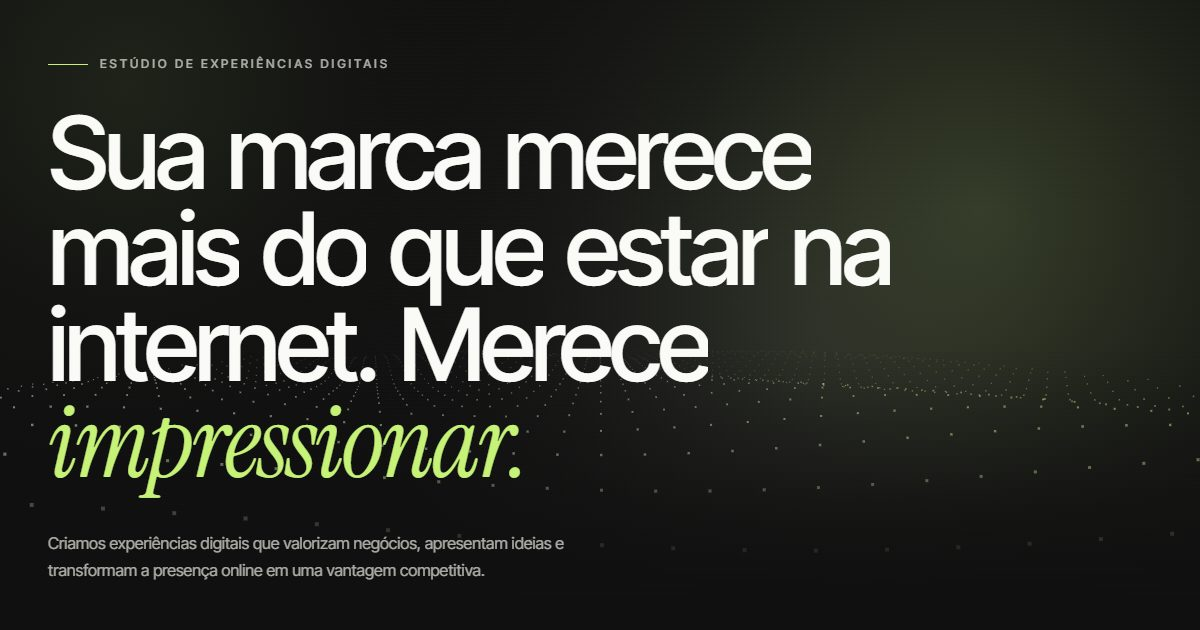
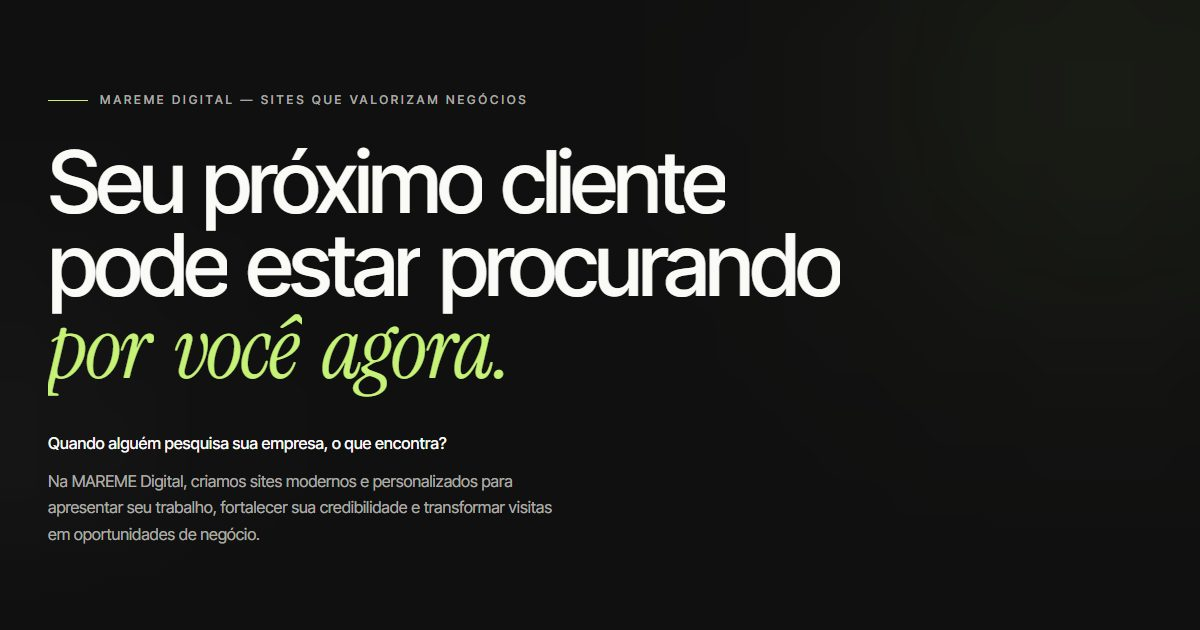
Atualiza hero, Sobre mim e contato
Nova copy do hero sem o fundo animado de partículas, textos do Emerson no Sobre mim com foto de corpo inteiro, WhatsApp configurado, cursor padrão do sistema e marcador em bolinha na faixa de serviços.

diff --git a/src/components/Founder.tsx b/src/components/Founder.tsx
@@ -1,24 +1,31 @@
 "use client";
 
-import { useRef } from "react";
+import { Fragment, useRef } from "react";
 import { site } from "@/data/site";
 import { asset } from "@/lib/asset";
 import { gsap, useGSAP } from "@/lib/gsap";
 import { Reveal } from "./Reveal";
-import { Em } from "./SectionHeading";
+
+/** Converte **trecho** em negrito. */
+function Rich({ text }: { text: string }) {
+  return (
+    <>
+      {text.split("**").map((part, i) =>
+        i % 2 ? <strong key={i} className="font-medium text-white">{part}</strong> : <Fragment key={i}>{part}</Fragment>
+      )}
+    </>
+  );
+}
 
 export function Founder() {
   const root = useRef<HTMLElement>(null);
   const f = site.founder;
+  const [first, ...rest] = f.title.split(" sou ");
 
   useGSAP(
     () => {
       const mm = gsap.matchMedia();
       mm.add("(prefers-reduced-motion: no-preference)", () => {
-        gsap.fromTo(".founder-photo", { yPercent: 8 }, {
-          yPercent: -8, ease: "none",
-          scrollTrigger: { trigger: root.current, start: "top bottom", end: "bottom top", scrub: true },
-        });
         gsap.fromTo(
           ".founder-frame",
           { clipPath: "inset(100% 0% 0% 0% round 28px)" },
@@ -35,9 +42,10 @@ export function Founder() {
   return (
     <section ref={root} id="sobre" className="relative overflow-hidden py-28 sm:py-36">
       <div aria-hidden="true" className="pointer-events-none absolute -left-40 top-1/3 h-[520px] w-[520px] rounded-full bg-lime/[0.06] blur-[140px]" />
-      <div className="container-x grid gap-14 lg:grid-cols-[0.9fr_1.1fr] lg:gap-20">
-        <div className="relative isolate mx-auto w-full max-w-[460px] lg:mx-0">
-          <div className="founder-frame relative aspect-[4/5] overflow-hidden rounded-[28px] border border-line bg-ink-3" style={{ clipPath: "inset(0% 0% 0% 0% round 28px)" }}>
+      <div className="container-x grid gap-14 lg:grid-cols-[0.75fr_1.25fr] lg:gap-20">
+        <div className="relative isolate mx-auto w-full max-w-[340px] self-start lg:sticky lg:top-28 lg:mx-0">
+          {/* Foto de corpo inteiro: a moldura segue a proporção original da imagem (821×1931) */}
+          <div className="founder-frame relative aspect-[821/1931] overflow-hidden rounded-[28px] border border-line bg-ink-3" style={{ clipPath: "inset(0% 0% 0% 0% round 28px)" }}>
             <img
               src={asset(f.photo)}
               alt={`${f.name}, ${f.role}`}
@@ -45,10 +53,10 @@ export function Founder() {
               height={1931}
               loading="lazy"
               decoding="async"
-              className="founder-photo absolute inset-x-0 -top-[8%] h-[116%] w-full object-cover object-[50%_28%]"
+              className="absolute inset-0 h-full w-full object-cover"
             />
-            <div className="absolute inset-0 bg-gradient-to-t from-ink via-transparent to-transparent" />
-            <div className="absolute inset-x-5 bottom-5 flex items-center justify-between gap-3 rounded-2xl border border-white/10 bg-ink/50 px-4 py-3 backdrop-blur-xl">
+            <div className="absolute inset-x-0 bottom-0 h-1/3 bg-gradient-to-t from-ink/90 to-transparent" />
+            <div className="absolute inset-x-4 bottom-4 flex items-center justify-between gap-3 rounded-2xl border border-white/10 bg-ink/50 px-4 py-3 backdrop-blur-xl">
               <div>
                 <p className="text-[15px] font-medium">{f.name}</p>
                 <p className="text-[12px] text-mist">Fundador · MAREME Digital</p>
@@ -70,16 +78,16 @@ export function Founder() {
           </Reveal>
           <Reveal delay={0.08}>
             <h2 className="text-[clamp(38px,5.2vw,76px)] font-medium leading-[0.98] tracking-[-0.04em]">
-              Por trás de cada projeto, <Em>um olhar dedicado.</Em>
+              {first} sou <em className="text-accent pr-[0.05em] font-serif font-normal italic tracking-[-0.01em]">{rest.join(" sou ")}</em>
             </h2>
           </Reveal>
           <Reveal delay={0.14}>
-            <p className="mt-6 text-[15px] uppercase tracking-[0.18em] text-mist">{f.name} — {f.role}</p>
+            <p className="mt-6 text-[15px] uppercase tracking-[0.18em] text-mist">{f.role}</p>
           </Reveal>
 
           <Reveal delay={0.2}>
             <div className="mt-8 grid gap-4 text-[17px] leading-relaxed text-white/75">
-              {f.story.map((p, i) => <p key={i}>{p}</p>)}
+              {f.story.map((p, i) => <p key={i}><Rich text={p} /></p>)}
             </div>
           </Reveal>
 
@@ -91,15 +99,15 @@ export function Founder() {
             </ul>
           </Reveal>
 
-          <div className="mt-12 grid gap-4 sm:grid-cols-2">
-            <Reveal delay={0.1} className="card-accent rounded-[22px] p-6">
-              <p className="eyebrow mb-3">Visão de trabalho</p>
-              <p className="font-serif text-[22px] italic leading-snug text-white/90">{f.vision}</p>
-            </Reveal>
-            <Reveal delay={0.18} className="rounded-[22px] border border-line bg-ink-2 p-6">
-              <p className="eyebrow mb-3">A MAREME e eu</p>
-              <p className="text-[16px] leading-relaxed text-white/75">{f.relation}</p>
-            </Reveal>
+          <div className="mt-12 grid gap-4">
+            {[f.vision, f.relation].map((block, i) => (
+              <Reveal key={block.title} delay={0.1 + i * 0.08} className={i === 0 ? "card-accent rounded-[22px] p-6 sm:p-8" : "rounded-[22px] border border-line bg-ink-2 p-6 sm:p-8"}>
+                <h3 className="eyebrow mb-5">{block.title}</h3>
+                <div className="grid gap-3.5 text-[16px] leading-relaxed text-white/75">
+                  {block.text.map((p, j) => <p key={j}><Rich text={p} /></p>)}
+                </div>
+              </Reveal>
+            ))}
           </div>
         </div>
       </div>

diff --git a/src/components/Hero.tsx b/src/components/Hero.tsx
@@ -1,12 +1,12 @@
 "use client";
 
 import { useRef } from "react";
-import { AuroraCanvas } from "./AuroraCanvas";
 import { MagneticButton, ArrowIcon } from "./MagneticButton";
 import { INTRO_EVENT } from "./Preloader";
 import { gsap, useGSAP } from "@/lib/gsap";
 
-const LINE_1 = "Sua marca merece mais do que estar na internet.".split(" ");
+const LINE_1 = "Seu próximo cliente pode estar procurando".split(" ");
+const ACCENT = "por você agora.".split(" ");
 
 export function Hero() {
   const root = useRef<HTMLElement>(null);
@@ -18,18 +18,13 @@ export function Hero() {
         const tl = gsap.timeline({ paused: true, defaults: { ease: "power4.out" } });
         tl.from(".hero-word", { yPercent: 115, rotate: 4, duration: 1.2, stagger: 0.045 })
           .from(".hero-fade", { opacity: 0, y: 24, duration: 1, stagger: 0.12 }, "-=0.75")
-          .from(".hero-canvas", { opacity: 0, scale: 1.08, duration: 2, ease: "power2.out" }, 0);
+          .from(".hero-bg", { opacity: 0, duration: 1.6, ease: "power2.out" }, 0);
 
         const play = () => tl.play();
         if (document.documentElement.dataset.intro === "done") play();
         else window.addEventListener(INTRO_EVENT, play, { once: true });
 
-        // Parallax suave ao rolar
-        gsap.to(".hero-canvas", {
-          yPercent: 18,
-          ease: "none",
-          scrollTrigger: { trigger: root.current, start: "top top", end: "bottom top", scrub: true },
-        });
+        // Conteúdo se afasta suavemente ao rolar
         gsap.to(".hero-content", {
           yPercent: -12,
           opacity: 0.2,
@@ -44,43 +39,47 @@ export function Hero() {
 
   return (
     <section ref={root} id="inicio" className="relative isolate flex min-h-[100svh] items-end overflow-hidden pb-14 pt-32 sm:items-center sm:pb-24">
-      <div className="hero-canvas absolute inset-0 -z-10">
-        <AuroraCanvas />
+      {/* Fundo estático: brilho sutil, sem partículas nem movimento */}
+      <div aria-hidden="true" className="hero-bg absolute inset-0 -z-10">
+        <div className="absolute -right-[10%] -top-[20%] h-[70vh] w-[70vh] rounded-full bg-lime/[0.07] blur-[140px]" />
+        <div className="absolute -left-[15%] bottom-[5%] h-[50vh] w-[50vh] rounded-full bg-white/[0.035] blur-[120px]" />
       </div>
       <div aria-hidden="true" className="absolute inset-x-0 bottom-0 -z-10 h-40 bg-gradient-to-b from-transparent to-ink" />
 
       <div className="hero-content container-x relative">
         <p className="hero-fade eyebrow mb-8">
-          <span className="h-px w-10 bg-accent" /> Estúdio de experiências digitais
+          <span className="h-px w-10 bg-accent" /> MAREME Digital — Sites que valorizam negócios
         </p>
 
-        <h1 className="max-w-[15ch] text-[clamp(44px,8.4vw,132px)] font-medium leading-[0.95] tracking-[-0.045em]">
-          <span className="sr-only">Sua marca merece mais do que estar na internet. Merece impressionar.</span>
+        <h1 className="max-w-[16ch] text-[clamp(42px,7.2vw,116px)] font-medium leading-[0.95] tracking-[-0.045em]">
+          <span className="sr-only">Seu próximo cliente pode estar procurando por você agora.</span>
           <span aria-hidden="true">
             {LINE_1.map((w, i) => (
               <span key={i} className="word-mask mr-[0.22em]">
                 <span className="hero-word inline-block">{w}</span>
               </span>
             ))}
-            <span className="word-mask mr-[0.22em]">
-              <span className="hero-word inline-block">Merece</span>
-            </span>
-            <span className="word-mask">
-              <span className="hero-word text-accent inline-block pr-[0.06em] font-serif italic tracking-[-0.02em]">impressionar.</span>
-            </span>
+            {ACCENT.map((w, i) => (
+              <span key={w} className={`word-mask ${i < ACCENT.length - 1 ? "mr-[0.22em]" : ""}`}>
+                <span className="hero-word text-accent inline-block pr-[0.06em] font-serif italic tracking-[-0.02em]">{w}</span>
+              </span>
+            ))}
           </span>
         </h1>
 
         <div className="mt-10 grid gap-10 md:grid-cols-[minmax(0,520px)_1fr] md:items-end">
-          <p className="hero-fade max-w-[520px] text-[clamp(16px,1.35vw,19px)] leading-relaxed text-mist">
-            Criamos experiências digitais que valorizam negócios, apresentam ideias e transformam a presença online em uma vantagem competitiva.
-          </p>
+          <div className="hero-fade max-w-[520px] text-[clamp(16px,1.35vw,19px)] leading-relaxed">
+            <p className="font-medium text-white">Quando alguém pesquisa sua empresa, o que encontra?</p>
+            <p className="mt-3 text-mist">
+              Na MAREME Digital, criamos sites modernos e personalizados para apresentar seu trabalho, fortalecer sua credibilidade e transformar visitas em oportunidades de negócio.
+            </p>
+          </div>
           <div className="hero-fade flex flex-wrap gap-3 md:justify-end">
-            <MagneticButton href="#projetos" cursor="Ver">
-              Explorar projetos <ArrowIcon />
+            <MagneticButton href="#contato">
+              Quero destacar minha empresa <ArrowIcon />
             </MagneticButton>
-            <MagneticButton href="#contato" variant="ghost">
-              Solicitar orçamento
+            <MagneticButton href="#projetos" variant="ghost">
+              Ver nosso portfólio
             </MagneticButton>
           </div>
         </div>

diff --git a/src/data/site.ts b/src/data/site.ts
@@ -21,7 +21,7 @@ export const site = {
    * EDITAR: WhatsApp com DDI + DDD, só números (ex.: "5582999999999").
    * Enquanto estiver vazio, os botões de contato abrem o Direct do Instagram.
    */
-  whatsapp: "",
+  whatsapp: "5582987797962",
 
   /** EDITAR: e-mail comercial. Vazio = não aparece no site. */
   email: "",
@@ -33,17 +33,23 @@ export const site = {
    */
   formEndpoint: process.env.NEXT_PUBLIC_FORM_ENDPOINT || "",
 
+  /**
+   * Textos da seção "Sobre mim". Use **negrito** para destacar trechos.
+   * Cada item das listas vira um parágrafo.
+   */
   founder: {
-    /** EDITAR: seu nome completo */
-    name: "Seu Nome",
-    role: "Fundador & diretor criativo da MAREME Digital",
+    name: "Emerson",
+    title: "Prazer, sou Emerson.",
+    role: "Desenvolvedor Web e fundador da MAREME Digital.",
     photo: "/images/fundador.webp",
-    /** EDITAR: sua trajetória (cada item vira um parágrafo) */
     story: [
-      "[Escreva aqui como começou sua trajetória — o que te levou ao design e ao desenvolvimento de sites.]",
-      "[Conte o que você faz hoje, os tipos de projeto que mais gosta de criar e o que te diferencia.]",
+      "Minha trajetória no mundo digital começou com a curiosidade de entender como a tecnologia poderia transformar ideias em negócios reais.",
+      "Com o tempo, fui me aprofundando no desenvolvimento de sites, explorando ferramentas, estudando novas possibilidades e descobrindo como unir tecnologia, design e estratégia para criar experiências digitais.",
+      "Foi dessa visão que nasceu a **MAREME Digital**, um projeto criado com o propósito de ajudar empresas e profissionais a construírem uma presença mais forte e profissional na internet.",
+      "Hoje, trabalho no desenvolvimento de sites institucionais, landing pages, portfólios digitais e soluções personalizadas para diferentes tipos de negócios.",
+      "Meu objetivo vai além de criar páginas bonitas. Busco desenvolver experiências que valorizem a identidade de cada empresa, transmitam credibilidade e facilitem a conexão com novos clientes.",
+      "**Acredito que cada negócio tem uma história única. Meu trabalho é ajudar a contar essa história através do digital.**",
     ],
-    /** Habilidades — ajuste à vontade */
     skills: [
       "Direção de arte digital",
       "UX/UI design",
@@ -52,12 +58,26 @@ export const site = {
       "SEO técnico",
       "Performance web",
     ],
-    /** EDITAR: sua visão de trabalho em uma frase */
-    vision:
-      "[Sua visão de trabalho em uma frase — por exemplo, o que um site precisa entregar para valer a pena.]",
-    /** EDITAR: sua relação com a MAREME Digital */
-    relation:
-      "[Explique por que você criou a MAREME Digital e como participa de cada projeto.]",
+    vision: {
+      title: "Minha visão de trabalho",
+      text: [
+        "Acredito que um site vai muito além de uma página na internet. Ele representa a identidade, a credibilidade e o potencial de um negócio.",
+        "Minha visão é unir **tecnologia, criatividade e estratégia** para desenvolver experiências digitais que não apenas impressionem visualmente, mas que também tenham propósito e funcionalidade.",
+        "Cada projeto é único. Por isso, busco entender a essência de cada marca, suas necessidades e seus objetivos, transformando ideias em soluções modernas, intuitivas e personalizadas.",
+        "Na **MAREME Digital**, meu compromisso é entregar mais do que um site: é criar uma presença digital que transmita confiança, valorize cada negócio e abra portas para novas oportunidades.",
+        "**Não desenvolvo apenas sites. Desenvolvo experiências que conectam marcas a pessoas.**",
+      ],
+    },
+    relation: {
+      title: "A MAREME Digital e eu",
+      text: [
+        "A **MAREME Digital** nasceu da minha vontade de transformar conhecimento, criatividade e tecnologia em soluções que realmente fazem a diferença para empresas e profissionais.",
+        "Mais do que uma agência, a MAREME representa minha visão de futuro, minha dedicação e meu desejo de construir algo próprio, capaz de gerar valor para outras pessoas.",
+        "Sou Emerson, fundador da MAREME Digital, e estou diretamente envolvido no desenvolvimento dos projetos, buscando unir design, tecnologia e estratégia para criar experiências digitais modernas e profissionais.",
+        "Acredito que cada empresa merece uma presença digital à altura do seu potencial. Por isso, cada projeto é uma oportunidade de transformar ideias em realidade, valorizando a identidade de cada negócio.",
+        "**A MAREME Digital não é apenas uma empresa que criei. É a materialização daquilo que acredito: que boas ideias, quando combinadas com tecnologia e dedicação, podem se transformar em grandes oportunidades.**",
+      ],
+    },
   },
 } as const;
 

diff --git a/src/app/layout.tsx b/src/app/layout.tsx
@@ -5,7 +5,6 @@ import { site } from "@/data/site";
 import { Providers } from "@/components/Providers";
 import { Preloader } from "@/components/Preloader";
 import { ScrollProgress } from "@/components/ScrollProgress";
-import { CustomCursor } from "@/components/CustomCursor";
 import { Header } from "@/components/Header";
 import { Footer } from "@/components/Footer";
 
@@ -68,7 +67,6 @@ export default function RootLayout({ children }: { children: React.ReactNode }) 
         <Providers>
           <Preloader />
           <ScrollProgress />
-          <CustomCursor />
           <Header />
           {children}
           <Footer />

diff --git a/src/components/Marquee.tsx b/src/components/Marquee.tsx
@@ -9,9 +9,7 @@ export function Marquee() {
         {row.map((t, i) => (
           <span key={i} className="flex items-center gap-10 whitespace-nowrap text-[clamp(26px,3.4vw,46px)] font-medium tracking-tight text-white/85">
             {i % 2 ? <span className="font-serif italic text-white/60">{t}</span> : t}
-            <svg viewBox="0 0 24 24" className="h-5 w-5 shrink-0 fill-lime">
-              <path d="M12 0l2.6 9.4L24 12l-9.4 2.6L12 24l-2.6-9.4L0 12l9.4-2.6z" />
-            </svg>
+            <span className="h-2.5 w-2.5 shrink-0 rounded-full bg-lime" />
           </span>
         ))}
       </div>

diff --git a/src/app/globals.css b/src/app/globals.css
@@ -113,10 +113,6 @@
 }
 .spotlight:hover::before { opacity: 1; }
 
-/* Cursor personalizado: esconde o nativo apenas quando ativo */
-html.has-cursor, html.has-cursor * { cursor: none !important; }
-html.has-cursor input, html.has-cursor textarea, html.has-cursor select { cursor: text !important; }
-
 /* Scrollbar discreta */
 * { scrollbar-width: thin; scrollbar-color: var(--color-graphite) transparent; }
 
